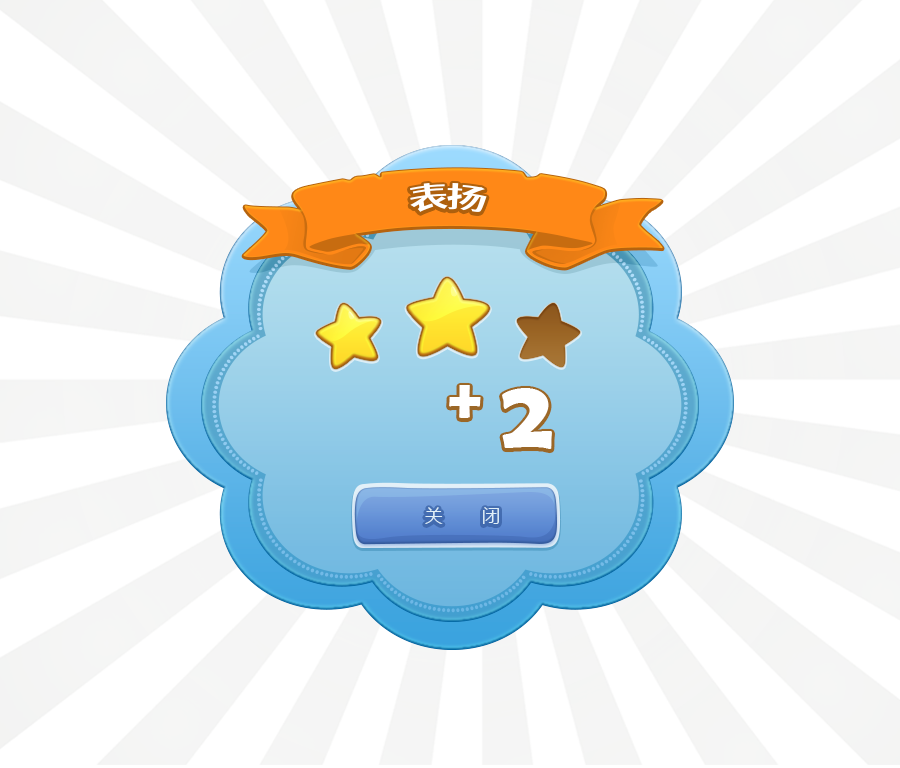
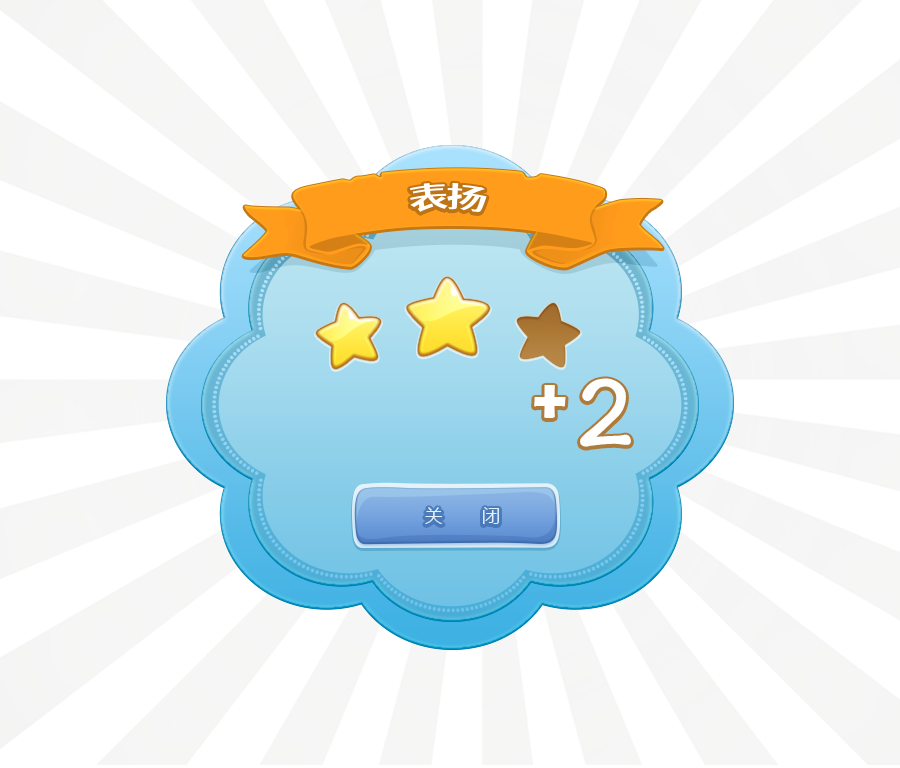
表扬界面优化

Changed region(s): [[0.4978, 0.4688, 0.7156, 0.5938], [0.4356, 0.375, 0.56, 0.4375], [0.3422, 0.375, 0.4356, 0.4688]]

diff --git a/interclass/teacher_app/src/cn/com/incito/interclass/ui/PraiseFrame.java b/interclass/teacher_app/src/cn/com/incito/interclass/ui/PraiseFrame.java
@@ -6,12 +6,15 @@ import java.awt.Font;
 import java.awt.Insets;
 import java.awt.Toolkit;
 import java.awt.event.ActionEvent;
+import java.awt.event.ActionListener;
 import java.awt.event.KeyEvent;
 import java.awt.event.MouseAdapter;
 import java.awt.event.MouseEvent;
 
 import javax.swing.AbstractAction;
+import javax.swing.BorderFactory;
 import javax.swing.ImageIcon;
+import javax.swing.JButton;
 import javax.swing.JDialog;
 import javax.swing.JFrame;
 import javax.swing.JLabel;
@@ -52,7 +55,7 @@ public class PraiseFrame extends JFrame {
 	
 	public class PhotoDialog extends JDialog {
 		private static final long serialVersionUID = -2216276219179107707L;
-		private static final String BACKGROUND = "images/praise/pic_praise2.png";
+		private JButton btnClose;
 		private JLabel lblBackground, lblGroupName;
 		
 		public PhotoDialog(final PraiseFrame coverFrame, String groupName, int score) {
@@ -78,9 +81,36 @@ public class PraiseFrame extends JFrame {
 			lblGroupName.setForeground(new Color(Integer.parseInt("FFFFFF", 16)));
 			lblGroupName.setBounds(230, 380, 220, 60);
 			add(lblGroupName);
-		        
+		    
 	        //设置背景
-			setBackground();
+			String background = "images/praise/pic_praise1.png";
+			switch (score) {
+			case 1:
+				background = "images/praise/pic_praise1.png";
+				break;
+			case 2:
+				background = "images/praise/pic_praise2.png";
+				break;
+			case 3:
+				background = "images/praise/pic_praise3.png";
+				break;
+			}
+			setBackground(background);
+			btnClose = new JButton();
+			btnClose.setFocusPainted(false);
+			btnClose.setBorderPainted(false);// 设置边框不可见
+			btnClose.setContentAreaFilled(false);// 设置透明
+			btnClose.setBounds(352, 480, 207, 65);
+			btnClose.addActionListener(new ActionListener(){
+	            public void actionPerformed(ActionEvent e) {
+	            	dispose();
+					if(coverFrame != null){
+						coverFrame.dispose();
+					}
+	            }
+	        });
+			add(btnClose);
+			
 			rootPane.getInputMap().put(KeyStroke.getKeyStroke(KeyEvent.VK_ESCAPE , 0), "close");
 			rootPane.getActionMap().put("close", new AbstractAction() {
 				private static final long serialVersionUID = -7001796667148557833L;
@@ -91,14 +121,6 @@ public class PraiseFrame extends JFrame {
 					}
 				}
 			 });
-			addMouseListener(new MouseAdapter() {
-				public void mouseClicked(MouseEvent e) {
-					dispose();
-					if(coverFrame != null){
-						coverFrame.dispose();
-					}
-				}
-			});
 			new Thread(){
 				public void run() {
 					try {
@@ -115,9 +137,9 @@ public class PraiseFrame extends JFrame {
 		}
 		
 		//设置背景
-	    private void setBackground() {
+	    private void setBackground(String background) {
 	        lblBackground = new JLabel();
-	        lblBackground.setIcon(new ImageIcon(BACKGROUND));
+	        lblBackground.setIcon(new ImageIcon(background));
 	        lblBackground.setBounds(0, 0, 900, 760);
 	        add(lblBackground);
 	    }

diff --git a/interclass/teacher_app/src/cn/com/incito/interclass/main/Main.java b/interclass/teacher_app/src/cn/com/incito/interclass/main/Main.java
@@ -31,7 +31,7 @@ import com.alibaba.fastjson.JSONObject;
  * 
  */
 public class Main {
-	public static final int VERSION_CODE = 2;
+	public static final int VERSION_CODE = 3;
 	private static final long FREE_SIZE = 1024 * 1024 * 100;//100M
 	
 	public static void main(String args[]) {
